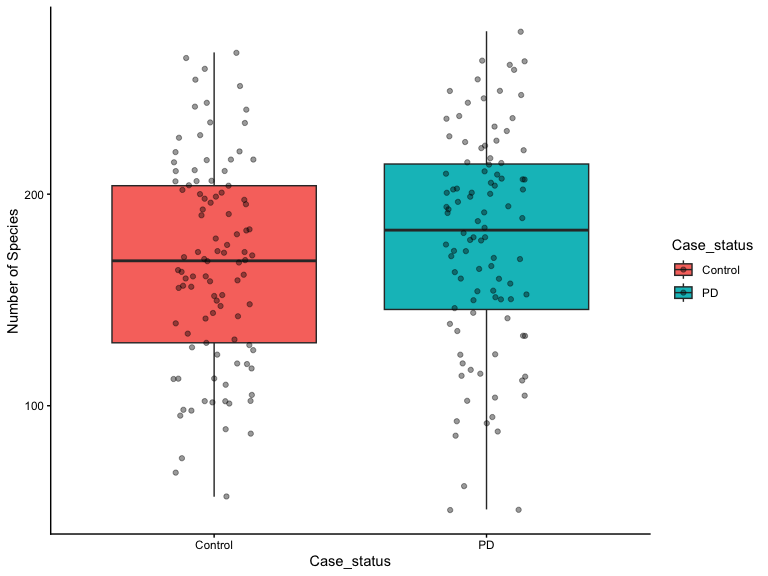
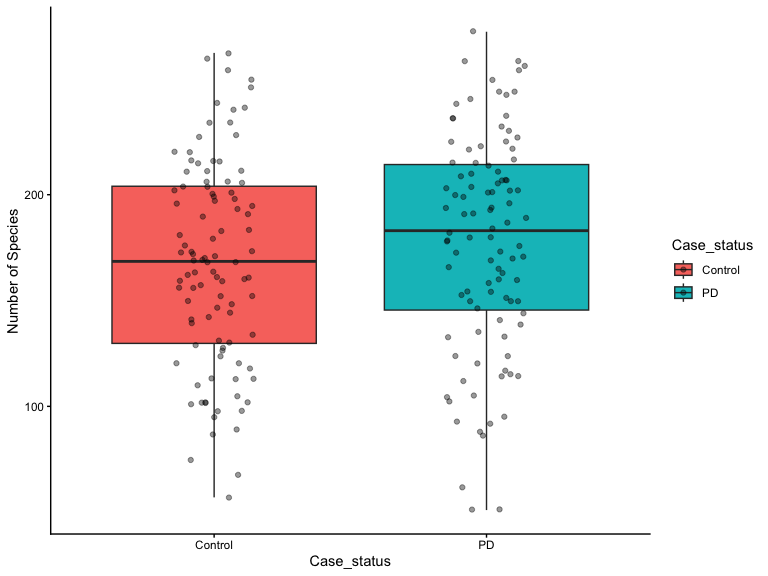
add link to analysis repo

diff --git a/README.md b/README.md
@@ -26,7 +26,7 @@ remotes::install_github("gtonkinhill/strainspy", build_vignettes = TRUE)
 ```
 
 A full set of examples and analyses performed using `StrainSpy` are
-available at
+available [here](https://sudaraka88.github.io/strainspy-manuscript/).
 
 Several useful notes for using StrainSpy with your own data is provided
 at the [end of this read me](#analysing-your-own-data).
